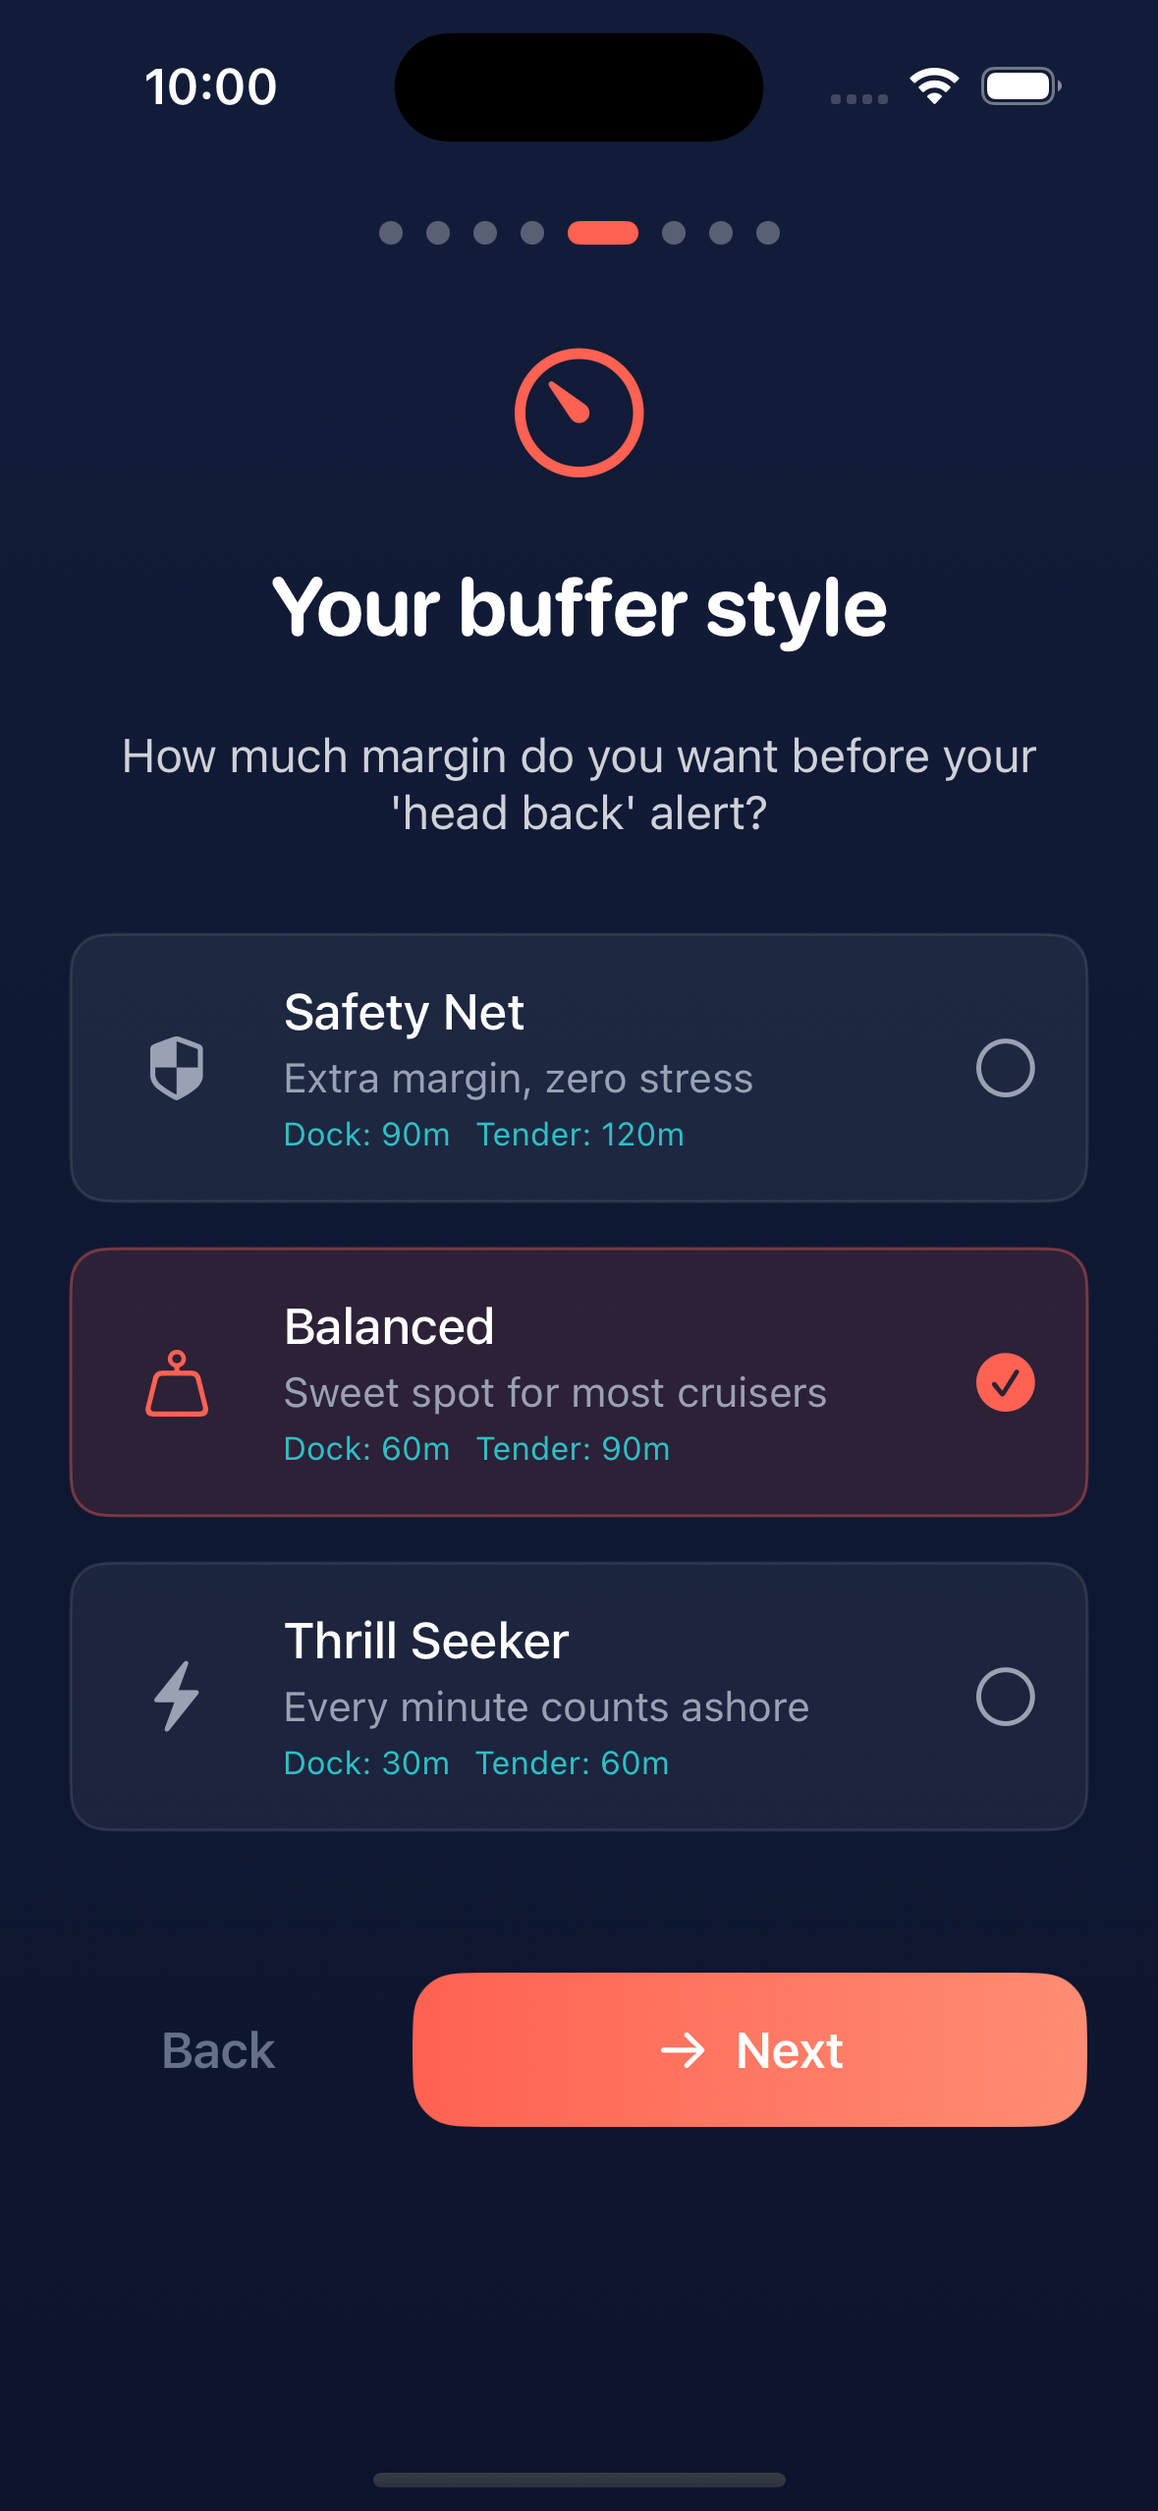
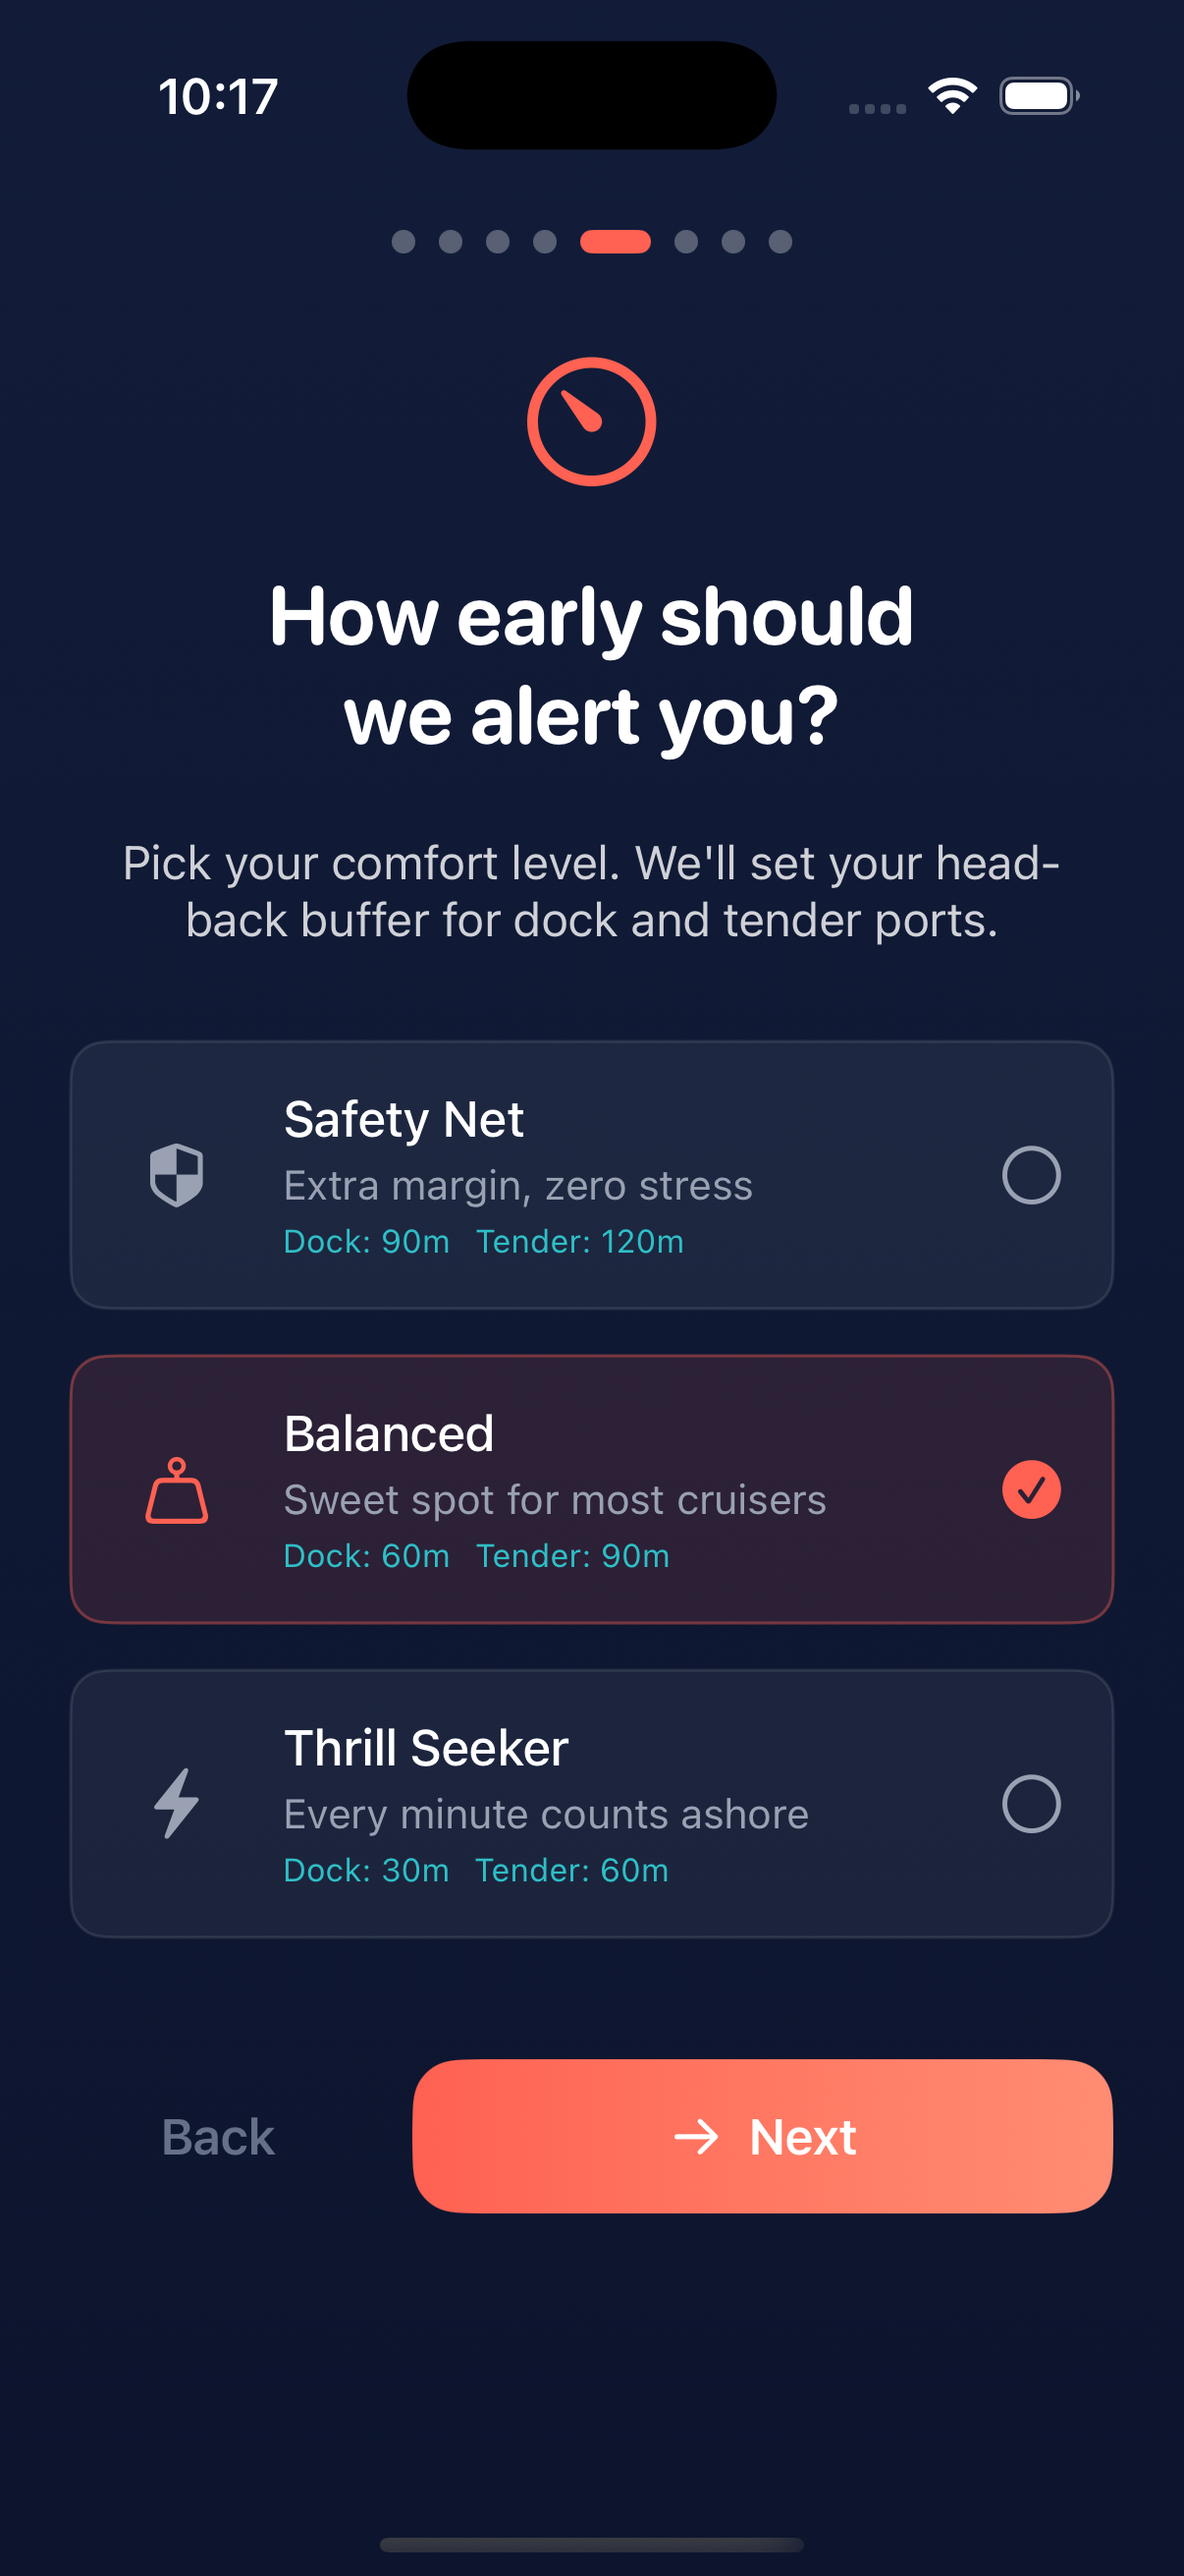
Redesign onboarding copy and reorder flow for stronger value prop
- Reorder: Hook → Ship Time → Date → Cruise Line → Buffer → Warnings → Notifications → Summary
  (ship time education moved to step 2 to establish the core risk early)
- Hook: "Never miss the ship." with ferry icon, cruise-specific body copy
- Ship Time: improved body copy, "I see the risk" CTA, "TAP THE CLOCKS" prompt
- Date: "count down to all-aboard" framing instead of generic "organized"
- Cruise Line: "personalize your setup" instead of "tailor your experience"
- Buffer: "How early should we alert you?" title clarifies purpose
- Warnings: "Your alert schedule" with reassuring "change these later"
- Notifications: "Don't miss the alerts" with cruise-specific preview copy
  (gangway, all-aboard language), ferry icon in previews
- Summary: "Ready to sail" with "tweak everything in settings later"
- Regenerated all screenshots via simctl

diff --git a/ios/ShoreSafe/ShoreSafe/Views/Onboarding/OnboardingShipTimeView.swift b/ios/ShoreSafe/ShoreSafe/Views/Onboarding/OnboardingShipTimeView.swift
@@ -3,29 +3,29 @@ import SwiftUI
 struct OnboardingShipTimeView: View {
     @ObservedObject var viewModel: OnboardingViewModel
     @State private var showLocalTime = false
-    @State private var demoPhase = 0
 
     var body: some View {
-        SSOnboardingPage(step: 3, totalSteps: viewModel.totalSteps) {
+        SSOnboardingPage(step: 1, totalSteps: viewModel.totalSteps) {
             VStack(spacing: SSSpacing.lg) {
                 Image(systemName: "clock.badge.exclamationmark")
                     .font(.system(size: 44))
                     .foregroundStyle(Color.ssWarning)
 
-                Text("Ship time ≠ local time")
+                Text("Ship time ≠\nlocal time")
                     .ssOnboardingTitle()
+                    .multilineTextAlignment(.center)
 
-                Text("When your ship visits a different time zone, **your phone switches automatically** — but the ship doesn't.")
+                Text("Your phone auto-adjusts to local time zones. The ship doesn't. That mismatch strands cruisers every week.")
                     .ssOnboardingBody()
                     .multilineTextAlignment(.center)
-                    .padding(.horizontal, SSSpacing.sm)
+                    .padding(.horizontal, SSSpacing.xs)
             }
 
             Spacer().frame(height: SSSpacing.xl)
 
             // Interactive demo
             VStack(spacing: SSSpacing.md) {
-                Text("TAP TO SEE THE RISK")
+                Text("TAP THE CLOCKS")
                     .font(.ssCaption)
                     .foregroundStyle(Color.ssTextMuted)
                     .tracking(1.5)
@@ -33,7 +33,6 @@ struct OnboardingShipTimeView: View {
                 Button {
                     withAnimation(.spring(response: 0.5)) {
                         showLocalTime.toggle()
-                        demoPhase = showLocalTime ? 1 : 0
                     }
                 } label: {
                     HStack(spacing: SSSpacing.xl) {
@@ -63,6 +62,7 @@ struct OnboardingShipTimeView: View {
                             Text(showLocalTime ? "3:30 PM" : "4:30 PM")
                                 .font(.ssCountdownSmall)
                                 .foregroundStyle(showLocalTime ? Color.ssDanger : Color.ssTextOnDark)
+                                .contentTransition(.numericText())
                         }
                         .foregroundStyle(showLocalTime ? Color.ssDanger : Color.ssTextMuted)
                     }
@@ -81,7 +81,7 @@ struct OnboardingShipTimeView: View {
                 .buttonStyle(.plain)
 
                 if showLocalTime {
-                    Text("Your phone says 3:30 — but the ship leaves at 4:30 **ship time**. That hour difference has stranded thousands.")
+                    Text("All-aboard is 4:30 **ship time** — but your phone says 3:30. You think you have an hour. You don't.")
                         .font(.ssBodySmall)
                         .foregroundStyle(Color.ssSunrise)
                         .multilineTextAlignment(.center)
@@ -97,7 +97,7 @@ struct OnboardingShipTimeView: View {
                 }
                 .frame(width: 100)
 
-                SSButton(title: "Got it", icon: "checkmark") {
+                SSButton(title: "I see the risk", icon: "checkmark") {
                     viewModel.next()
                 }
             }

diff --git a/ios/ShoreSafe/ShoreSafe/Views/Onboarding/OnboardingHookView.swift b/ios/ShoreSafe/ShoreSafe/Views/Onboarding/OnboardingHookView.swift
@@ -7,15 +7,22 @@ struct OnboardingHookView: View {
         SSOnboardingPage(step: 0, totalSteps: viewModel.totalSteps) {
             Spacer()
 
-            VStack(spacing: SSSpacing.lg) {
-                // Icon cluster
+            VStack(spacing: SSSpacing.xl) {
+                // Hero icon — ship + clock conveys the core concept
                 ZStack {
                     Circle()
-                        .fill(Color.ssCoral.opacity(0.15))
-                        .frame(width: 140, height: 140)
+                        .fill(
+                            RadialGradient(
+                                colors: [Color.ssCoral.opacity(0.2), Color.ssCoral.opacity(0.05)],
+                                center: .center,
+                                startRadius: 20,
+                                endRadius: 80
+                            )
+                        )
+                        .frame(width: 160, height: 160)
 
-                    Image(systemName: "sun.and.horizon.fill")
-                        .font(.system(size: 56))
+                    Image(systemName: "ferry.fill")
+                        .font(.system(size: 64))
                         .foregroundStyle(
                             LinearGradient(
                                 colors: [.ssCoral, .ssSunrise],
@@ -24,22 +31,23 @@ struct OnboardingHookView: View {
                             )
                         )
                 }
-                .padding(.bottom, SSSpacing.md)
 
-                Text("Your ship.\nYour shore day.\nZero stress.")
-                    .ssOnboardingTitle()
-                    .multilineTextAlignment(.center)
+                VStack(spacing: SSSpacing.md) {
+                    Text("Never miss\nthe ship.")
+                        .ssOnboardingTitle()
+                        .multilineTextAlignment(.center)
 
-                Text("ShoreSafe keeps you aligned to ship time so you never become a pier runner.")
-                    .ssOnboardingBody()
-                    .multilineTextAlignment(.center)
-                    .padding(.horizontal, SSSpacing.md)
+                    Text("ShoreSafe tracks ship time so you always make it back before all-aboard — even when your phone clock lies.")
+                        .ssOnboardingBody()
+                        .multilineTextAlignment(.center)
+                        .padding(.horizontal, SSSpacing.sm)
+                }
             }
 
             Spacer()
             Spacer()
 
-            SSButton(title: "Let's set up", icon: "arrow.right") {
+            SSButton(title: "Get started", icon: "arrow.right") {
                 viewModel.next()
             }
             .padding(.bottom, SSSpacing.xxl)

diff --git a/ios/ShoreSafe/ShoreSafe/Views/Onboarding/OnboardingNotificationsView.swift b/ios/ShoreSafe/ShoreSafe/Views/Onboarding/OnboardingNotificationsView.swift
@@ -19,21 +19,22 @@ struct OnboardingNotificationsView: View {
                         .symbolEffect(.pulse)
                 }
 
-                Text("Stay in the loop")
+                Text("Don't miss\nthe alerts")
                     .ssOnboardingTitle()
+                    .multilineTextAlignment(.center)
 
-                Text("ShoreSafe sends calm, timely reminders as your 'head back' time approaches. No spam — just the alerts you picked.")
+                Text("ShoreSafe sends escalating reminders as all-aboard approaches. No spam — only the alerts you chose.")
                     .ssOnboardingBody()
                     .multilineTextAlignment(.center)
                     .padding(.horizontal, SSSpacing.sm)
 
                 // Preview of what alerts look like
                 VStack(spacing: SSSpacing.sm) {
-                    NotificationPreview(time: "2:30 PM", text: "60 minutes until head-back time")
-                    NotificationPreview(time: "3:00 PM", text: "30 minutes — start wrapping up")
-                    NotificationPreview(time: "3:15 PM", text: "15 minutes — head back now")
+                    NotificationPreview(time: "2:30 PM", text: "60 min to all-aboard — no rush yet")
+                    NotificationPreview(time: "3:00 PM", text: "30 min — start wrapping up")
+                    NotificationPreview(time: "3:15 PM", text: "15 min — head to the gangway")
                 }
-                .padding(.top, SSSpacing.md)
+                .padding(.top, SSSpacing.sm)
             }
 
             Spacer()
@@ -63,7 +64,7 @@ private struct NotificationPreview: View {
 
     var body: some View {
         HStack(spacing: SSSpacing.sm) {
-            Image(systemName: "sun.and.horizon.fill")
+            Image(systemName: "ferry.fill")
                 .font(.caption)
                 .foregroundStyle(Color.ssCoral)
                 .frame(width: 24, height: 24)

diff --git a/ios/ShoreSafe/ShoreSafe/Views/Onboarding/OnboardingDateView.swift b/ios/ShoreSafe/ShoreSafe/Views/Onboarding/OnboardingDateView.swift
@@ -4,7 +4,7 @@ struct OnboardingDateView: View {
     @ObservedObject var viewModel: OnboardingViewModel
 
     var body: some View {
-        SSOnboardingPage(step: 1, totalSteps: viewModel.totalSteps) {
+        SSOnboardingPage(step: 2, totalSteps: viewModel.totalSteps) {
             VStack(spacing: SSSpacing.lg) {
                 Image(systemName: "calendar.badge.clock")
                     .font(.system(size: 44))
@@ -13,7 +13,7 @@ struct OnboardingDateView: View {
                 Text("When do you sail?")
                     .ssOnboardingTitle()
 
-                Text("We'll use this to keep your port days organized.")
+                Text("We'll count down to all-aboard for every port day on your cruise.")
                     .ssOnboardingBody()
                     .multilineTextAlignment(.center)
             }

diff --git a/ios/ShoreSafe/ShoreSafe/Views/Onboarding/OnboardingCruiseLineView.swift b/ios/ShoreSafe/ShoreSafe/Views/Onboarding/OnboardingCruiseLineView.swift
@@ -9,7 +9,7 @@ struct OnboardingCruiseLineView: View {
     ]
 
     var body: some View {
-        SSOnboardingPage(step: 2, totalSteps: viewModel.totalSteps) {
+        SSOnboardingPage(step: 3, totalSteps: viewModel.totalSteps) {
             VStack(spacing: SSSpacing.lg) {
                 Image(systemName: "ferry.fill")
                     .font(.system(size: 44))
@@ -18,7 +18,7 @@ struct OnboardingCruiseLineView: View {
                 Text("Which cruise line?")
                     .ssOnboardingTitle()
 
-                Text("Optional — helps us tailor your experience.")
+                Text("Optional — this helps personalize your setup.")
                     .ssOnboardingBody()
                     .multilineTextAlignment(.center)
             }

diff --git a/ios/ShoreSafe/ShoreSafe/Views/Onboarding/OnboardingContainerView.swift b/ios/ShoreSafe/ShoreSafe/Views/Onboarding/OnboardingContainerView.swift
@@ -12,11 +12,11 @@ struct OnboardingContainerView: View {
             TabView(selection: $viewModel.currentStep) {
                 OnboardingHookView(viewModel: viewModel)
                     .tag(0)
-                OnboardingDateView(viewModel: viewModel)
-                    .tag(1)
-                OnboardingCruiseLineView(viewModel: viewModel)
-                    .tag(2)
                 OnboardingShipTimeView(viewModel: viewModel)
+                    .tag(1)
+                OnboardingDateView(viewModel: viewModel)
+                    .tag(2)
+                OnboardingCruiseLineView(viewModel: viewModel)
                     .tag(3)
                 OnboardingBufferView(viewModel: viewModel)
                     .tag(4)

diff --git a/ios/ShoreSafe/ShoreSafe/Views/Onboarding/OnboardingWarningsView.swift b/ios/ShoreSafe/ShoreSafe/Views/Onboarding/OnboardingWarningsView.swift
@@ -12,10 +12,11 @@ struct OnboardingWarningsView: View {
                     .font(.system(size: 44))
                     .foregroundStyle(Color.ssSunrise)
 
-                Text("Alert schedule")
+                Text("Your alert\nschedule")
                     .ssOnboardingTitle()
+                    .multilineTextAlignment(.center)
 
-                Text("We'll nudge you at these intervals before your 'head back' time. Adjust any time.")
+                Text("Choose when we nudge you before it's time to head back. You can change these later.")
                     .ssOnboardingBody()
                     .multilineTextAlignment(.center)
             }

diff --git a/ios/ShoreSafe/ShoreSafe/Views/Onboarding/OnboardingBufferView.swift b/ios/ShoreSafe/ShoreSafe/Views/Onboarding/OnboardingBufferView.swift
@@ -10,10 +10,11 @@ struct OnboardingBufferView: View {
                     .font(.system(size: 44))
                     .foregroundStyle(Color.ssCoral)
 
-                Text("Your buffer style")
+                Text("How early should\nwe alert you?")
                     .ssOnboardingTitle()
+                    .multilineTextAlignment(.center)
 
-                Text("How much margin do you want before your 'head back' alert?")
+                Text("Pick your comfort level. We'll set your head-back buffer for dock and tender ports.")
                     .ssOnboardingBody()
                     .multilineTextAlignment(.center)
             }

diff --git a/ios/ShoreSafe/ShoreSafe/Views/Onboarding/OnboardingSummaryView.swift b/ios/ShoreSafe/ShoreSafe/Views/Onboarding/OnboardingSummaryView.swift
@@ -19,10 +19,10 @@ struct OnboardingSummaryView: View {
                         .foregroundStyle(Color.ssSuccess)
                 }
 
-                Text("You're all set")
+                Text("Ready to sail")
                     .ssOnboardingTitle()
 
-                Text("Your perfect day ashore starts with one simple timer.")
+                Text("Here's your setup. You can tweak everything in settings later.")
                     .ssOnboardingBody()
                     .multilineTextAlignment(.center)
             }
